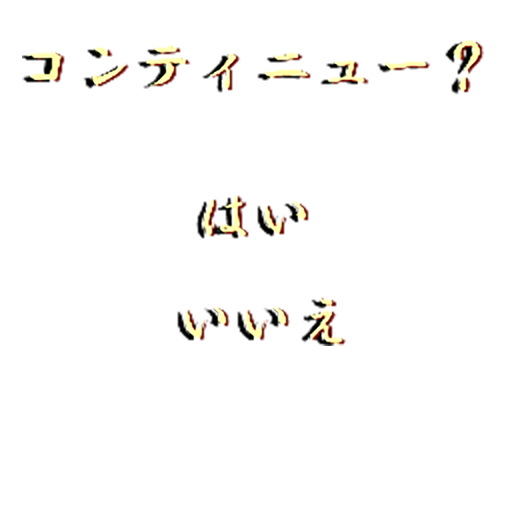
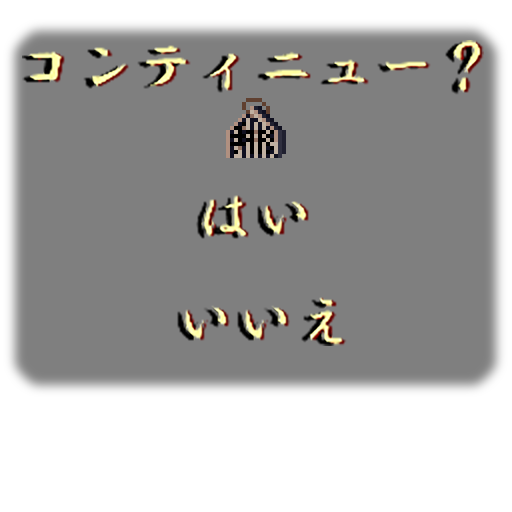
コンティニュー演出追加

diff --git a/Solution/Status.cpp b/Solution/Status.cpp
@@ -4,6 +4,7 @@
 #include "Power.h"
 #include "Field.h"
 #include "Tarosuke.h"
+#include "Game.h"
 
 static const int MAP_WIDTH = 347;
 static const int POWER_X = 218;
@@ -17,6 +18,8 @@ _power( power ),
 _field( field ),
 _tarosuke( tarosuke ),
 _count( 0 ) {
+	GamePtr game = Game::getTask( );
+	_continue_count = game->getContinueCount( );
 }
 
 Status::~Status( ) {
@@ -68,6 +71,18 @@ void Status::draw( ) {
 		int u = ANIM[_count / 4 % 8 ];
 		Drawer::Transform trans( x, y, u * MARKER_SIZE, 0, MARKER_SIZE, MARKER_SIZE );
 		Drawer::Sprite sprite(trans, GRAPH_STATUS_MARKER );
+		drawer->setSprite(sprite);
+	}
+	
+	for ( int i = 0; i < _continue_count; i++ ) {
+		int x = 850 - i * 15;
+		int y = 32;
+		int n = ( _count + i * 5 ) % 100;
+		if ( n < 20 ) {
+			y -= ( int )( sin( PI * n / 20 ) * 16 );
+		}
+		Drawer::Transform trans( x, y );
+		Drawer::Sprite sprite(trans, GRAPH_STATUS_CONTINUE );
 		drawer->setSprite(sprite);
 	}
 }

diff --git a/Solution/SceneStreet.cpp b/Solution/SceneStreet.cpp
@@ -59,6 +59,7 @@ _count( 0 ) {
 	drawer->loadGraph( GRAPH_STATUS_POWER_5		, "street/status/status_power_5.png");
 	drawer->loadGraph( GRAPH_STATUS_POWER_6		, "street/status/status_power_6.png");
 	drawer->loadGraph( GRAPH_STATUS_MARKER		, "street/status/status_marker.png");
+	drawer->loadGraph( GRAPH_STATUS_CONTINUE    , "street/status/status_continue.png");
 	drawer->loadGraph( GRAPH_STATUS_PLATE		, "street/status/status_plate.png");
 	drawer->loadGraph( GRAPH_ENEMY_NORMAL		, "street/enemy/enemy_nomal.png");
 	drawer->loadGraph( GRAPH_ENEMY_SMALL		, "street/enemy/enemy_small.png");

diff --git a/Solution/EnemyDeceasedFirst.cpp b/Solution/EnemyDeceasedFirst.cpp
@@ -18,10 +18,9 @@ EnemyDeceasedFirst::~EnemyDeceasedFirst( ) {
 }
 
 void EnemyDeceasedFirst::act( ) {
-	const int MAX_ANIME_PATTERN = 5;
+	const int ANIM[ 8 ] = { 0, 1, 2, 3, 4, 3, 2, 1 };
 	_count++;
-	_count %= WAIT_ANIME_TIME * MAX_ANIME_PATTERN;
-	int pattern = _count / WAIT_ANIME_TIME % ( MAX_ANIME_PATTERN - 1 );
+	int pattern = _count / WAIT_ANIME_TIME % 8;
 	setChipGraph( GRAPH_ENEMY_NORMAL, pattern, 13 );
 	if ( ( getX( ) > getCameraX( ) + SCREEN_WIDTH / 3 * 2 - 10 ) &&
 		 ( getX( ) < getCameraX( ) + SCREEN_WIDTH / 3 * 2 + 10 ) ) {

diff --git a/Solution/Map1.cpp b/Solution/Map1.cpp
@@ -131,7 +131,7 @@ static const Map::Panel panel[] = {
 		"     ###########"
 		"     ###########"
 		"     ###########"
-		"  $  ###########"
+		"    $###########"
 		"+++++###########"
 		"################"
 	},
@@ -664,7 +664,7 @@ static const Map::Panel panel[] = {
 		"street/map1/bg/map1_29.png",
 		"street/map1/cover/entry_cave.png",
 		0, 0,
-		"                "
+		"           $    "
 		"                "
 		"                "
 		"           Z    "

diff --git a/Solution/SceneGate.cpp b/Solution/SceneGate.cpp
@@ -186,7 +186,7 @@ void SceneGate::draw( ) const {
 		int tx = idx % 2 * 128;
 		int ty = idx / 2 * 128;
 		Drawer::Sprite sprite( 
-			Drawer::Transform( 1100, 350, tx, ty, 128, 128 ), GRAPH_GATE_FACE );
+			Drawer::Transform( 1098, 348, tx, ty, 128, 128 ), GRAPH_GATE_FACE );
 		drawer->setSprite( sprite );
 	}
 	{

diff --git a/Solution/define.h b/Solution/define.h
@@ -57,6 +57,7 @@ enum GRAPH {
 	GRAPH_STATUS_POWER_6,
 	GRAPH_STATUS_MAP,
 	GRAPH_STATUS_MARKER,
+	GRAPH_STATUS_CONTINUE,
 	GRAPH_STATUS_TITLE,
 	GRAPH_CHARACTER_1,
 	GRAPH_CHARACTER_2,

diff --git a/Solution/Status.h b/Solution/Status.h
@@ -18,4 +18,5 @@ private:
 	int _count;
 	FieldConstPtr _field;
 	TarosukeConstPtr _tarosuke;
+	int _continue_count;
 };
